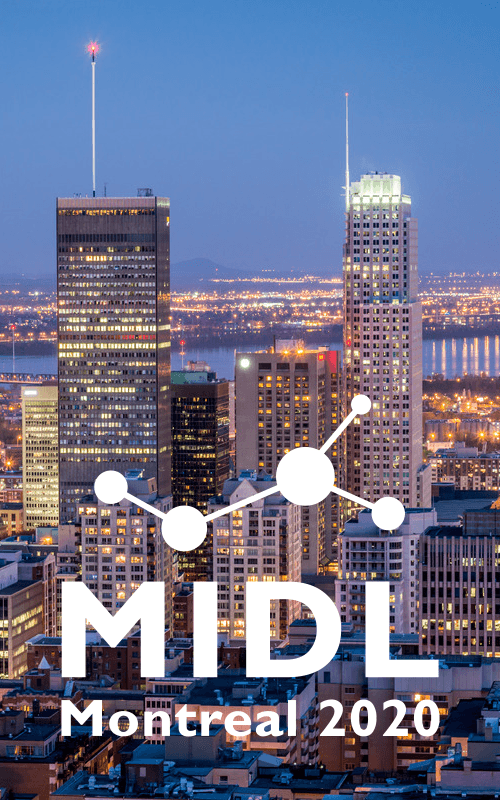
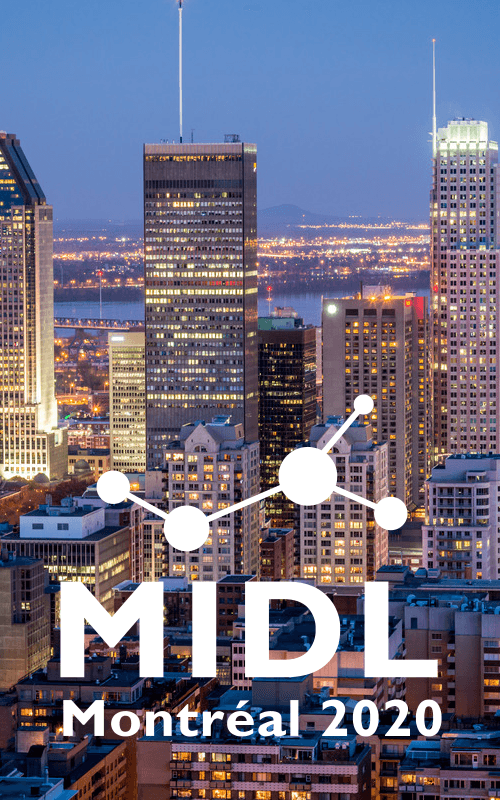
Changed spelling of Montreal into official spelling with é

diff --git a/pages/index.md b/pages/index.md
@@ -1,7 +1,7 @@
 [% .cards .small %]
 [![Amsterdam 2018](/images/card-small-2018.png)](https://2018.midl.io)
 [![London 2019](/images/card-small-2019.png)](https://2019.midl.io)
-[![Montreal 2020](/images/card-small-2020.png)](https://2020.midl.io)
+[![Montréal 2020](/images/card-small-2020.png)](https://2020.midl.io)
 [![Lübeck 2021](/images/card-small-2021.png)](https://2021.midl.io)
 [% / %]
 
